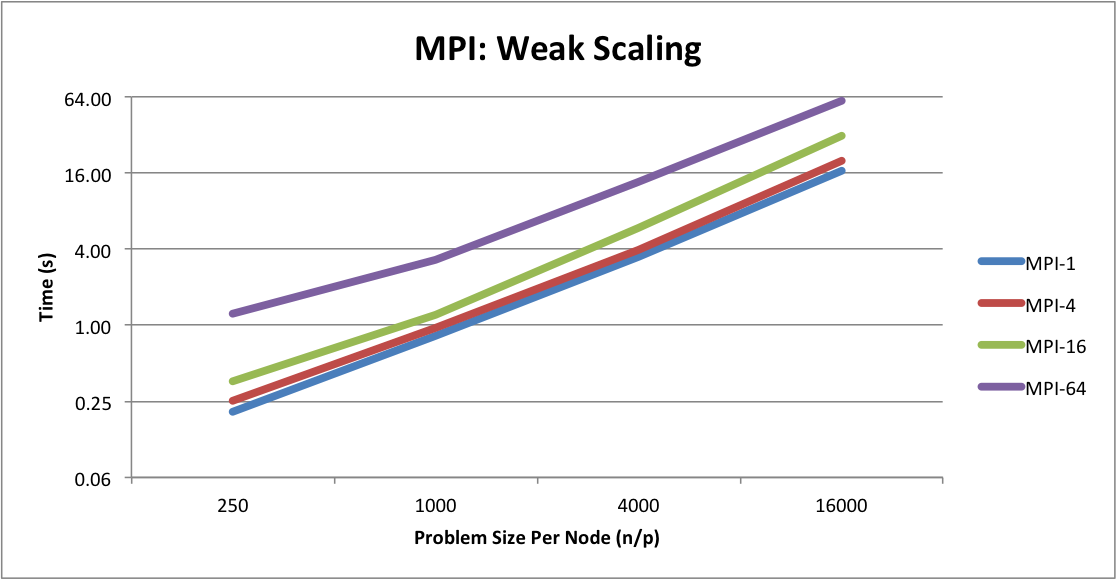
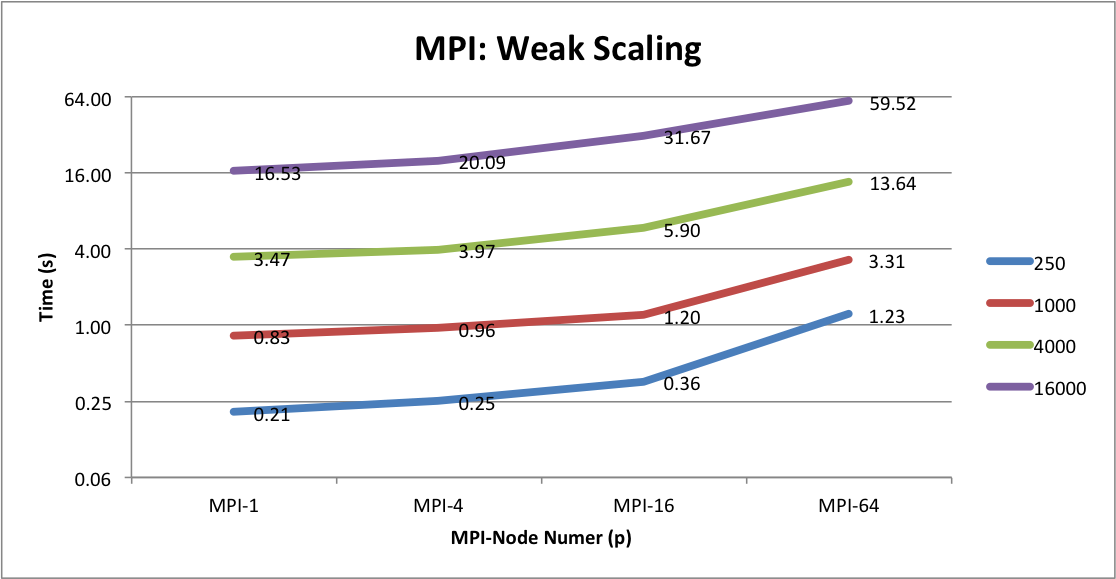
Final changes before submitting, hopefully.

diff --git a/report/hw2.tex b/report/hw2.tex
@@ -3,6 +3,7 @@
 \usepackage[retainorgcmds]{IEEEtrantools}
 \usepackage{filecontents}
 \usepackage{hyperref}
+\usepackage{graphicx}
 \author{Derek Kuo, Henry Milner}
 \title{CS267 HW2: Particle Simulation}
 \date{3/13/15}
@@ -153,9 +154,27 @@ We run our experiments in three different computing environments.  Most experime
 Our serial implementation uses a grid data structure to execute the interaction step in $O(n)$ time.  The box is divided into $O(n)$ equal squares (approximately $n$ squares in our implementation), which are large enough that a particle can only interact with particles in its own square and its 8 neighboring squares on a single iteration.  Squares are stored in a flat vector in column-major order, and each square contains a pointer to a vector of pointers to the particles it currently contains.  In the interaction step, each particle only needs to be checked for interactions with particles in 9 squares; since the number of particles per square is bounded (and equal to 1 on average), the interaction step takes $O(n)$ time.  After the movement step, particles must be mapped to new grid squares, so we simply build a new grid serially, which takes $O(n)$ time.
 
 \subsection{Results}
-Serial-hopper \ref{fig:serial-on} shows that our algorithm indeed enjoys linear ($O(n)$) scaling.  For comparison, Figure \ref{fig:serial-naive} shows the performance of the naive $O(n^2)$ algorithm on smaller problems.
+Figure \ref{fig:serial-on} shows that our algorithm indeed enjoys linear ($O(n)$) scaling.  For comparison, Figure \ref{fig:serial-naive} shows the performance of the naive $O(n^2)$ algorithm on smaller problems.
 
 We also ran our experiments on our laptop, and the laptop runs the serial code faster than the Hopper nodes, which are not designed for serial performance.  Figure \ref{fig:serial-laptop} shows the results; the laptop does slightly outperform Hopper.
+
+\begin{figure}
+  \includegraphics[width=\textwidth]{plots/Serial-Hopper.png}
+  \caption{$O(n)$ scaling of the serial algorithm.}
+  \label{fig:serial-on}
+\end{figure}
+
+\begin{figure}
+  \includegraphics[width=\textwidth]{plots/Serial-Naive.png}
+  \caption{Performance of the $O(n^2)$ serial algorithm.}
+  \label{fig:serial-naive}
+\end{figure}
+
+\begin{figure}
+  \includegraphics[width=\textwidth]{plots/Serial-laptop-vs-hopper.png}
+  \caption{Performance of the serial algorithm on Hopper and a laptop.  (Running time is the on the y axis, and problem size is on the x axis.  Smaller is better.)}
+  \label{fig:serial-laptop}
+\end{figure}
 
 \section{OpenMP Implementation}
 Our OpenMP implementation uses a similar grid data structure.  To maximize cache locality, each thread is assigned a block of grid squares whose particles' accelerations it must compute in the interaction step.  With this scheme, a thread needs only read particles from its own squares and from squares bordering its block.  The grid itself is also built in parallel.  After movement, each thread inserts into a new shared grid data structure all the particles that were in its block before movement.  Each square uses a separate \code{omp\_lock\_t} to ensure that inserts are atomic.
@@ -202,17 +221,35 @@ def insertIntoGrid(oldGrid, newGrid):
 \subsection{Results}
 Figure \ref{fig:openmp-on} shows that our algorithm scales linearly with problem size, for $p=1$ or $p=24$ threads.  Figure \ref{fig:openmp-weak} shows weak scaling: We increase the number of threads, increasing $n$ proportionally, for various base problem sizes.  Our algorithm does not enjoy weak scaling; a least-squares fit of log-performance against $\alpha \log n$ gives $\alpha \approxeq 1/2$ for large $n$, indicating that the asymptotic performance could be $O(n/\sqrt{p})$.  Figure \ref{fig:openmp-strong} gives similarly bad news for strong scaling.
 
+\begin{figure}
+  \includegraphics[width=\textwidth]{plots/OpenMP-Thread1-vs-Thread24.png}
+  \caption{$O(n)$ scaling of the OpenMP implementation using $1$ and $24$ threads.}
+  \label{fig:openmp-on}
+\end{figure}
+
+\begin{figure}
+  \includegraphics[width=\textwidth]{plots/OpenMP-weak-scaling.png}
+  \caption{Weak scaling of the OpenMP implementation, for various base problem sizes.}
+  \label{fig:openmp-weak}
+\end{figure}
+
+\begin{figure}
+  \includegraphics[width=\textwidth]{plots/OpenMP-Strong-scaling.png}
+  \caption{Strong scaling of the OpenMP implementation, for various base problem sizes.}
+  \label{fig:openmp-strong}
+\end{figure}
+
 \section{MPI Implementation}
-Our MPI implementation centered on three parts: 1) the division of particle regions for each node - how over all particles are divided and handled. 2) the communication and message format passing among each node - what different type of information are passed through MPI commands. 3) the faster O(n) algorithm achieved by grids.
+Our MPI implementation centered on three parts: (1) the division of particle regions for each node - how over all particles are divided and handled; (2) the communication and message format passing among each node - what different type of information are passed through MPI commands; and (3) the faster $O(n)$ algorithm achieved by grids.
 
 \subsection{The division of particles}
-Initially, the master node (rank=0) scan all of the particles and assigned them into corresponding processor based on their locations on the map. Based on different number of nodes user specified, the program equally divided the region into subregion administrated by each node. In it's own region, the node calculated the force and move the particles based on local data. Two types of local data have been recorded: (1) Nodes inside the region (2) Nodes outside the region but is in the boundary region <within the region that just one grid width beyond the inside region. With these two local data, each node have sufficient information to calculate it's own particles' movement.
+Initially, the master node (rank=0) scans all of the particles and assigns them to a processor based on their locations in the box. Based on the number of nodes specified by the user, the program equally divides the region into subregion administrated by each node. In its own region, the node calculates forces and moves particles based on local data. A node holds two types of local data: (1) particles inside the region (2) particles outside the region but in the boundary of squares immediately around the region. With this local data, each node has sufficient information to calculate its own particles' movements.
 
 \subsection{Communication between nodes}
-After applying force and make movement, each particle will have a new coordinate. Each node started to examine if <1> it's own particles have moved outside the region or <2> it's still inside the region but it's at the boundary of other nodes. <3> inside the region and not at boundary. The node then use MPI_Isend() and MPI_Recv() to communicate with other nodes and send the list of type <1> and type <2> particles to the exact nodes they should received. One thing to note is we are using non-blocking MPI_Isend() and blocking MPI_Recv() to avoid deadlock.
+After applying forces and movements, each particle has a new coordinate. Each node checks whether its particles have (1) moved outside the region; (2) stayed inside the region but at the boundary of other nodes; or (3) stayed inside the region and not at boundary. The node then use \code{MPI\_Isend()} and \code{MPI\_Recv()} to communicate with other nodes and send the list of type (1) and type (2) particles to the exact nodes they should received. One thing to note is we are using non-blocking \code{MPI\_Isend()} and blocking \code{MPI\_Recv()} to avoid deadlock.
 
 \subsection{Faster algorithm with grid}
-Similar to OpenMP, the MPI are also using grid data structure to improve the time efficiency to O(n). However, instead of shared grid structure, each node maintain it's own local grids and only store the local nodes into the grids. The advantage to do grid locally is the avoidance of racing conditions. The drawback is we need to update the grid in every step, potentially increasing the computation time in addition to update the particles.
+Similar to OpenMP, the MPI implementation uses a grid data structure to improve the time efficiency to $O(n)$. However, instead of shared grid structure, each node maintains its own local grid. In principle, we could use an $O(n^2)$ algorithm locally, if the subproblem solved by each node were too small to justify the overhead of maintaining a grid.  In practice, it is better to use the linear algorithm.
 
 \subsection{pseudocode}
 
@@ -232,7 +269,25 @@ For each step within each node:
 \end{verbatim}
 
 \subsection{Results}
-Figure \ref{fig:mpi-on} shows that our algorithm scales linearly with problem size, for $p=1$ or $p=16$ nodes.  Figure \ref{fig:mpi-weak} shows weak scaling: We increase the number of nodes, increasing $n$ proportionally, for various base problem sizes.  Our MPI algorithm has enjoyed better weak scaling, although not perfect.  Figure \ref{fig:mpi-strong} gives also displayed the same situation.
+Figure \ref{fig:mpi-on} shows that our algorithm scales linearly with problem size, for $p=1$ or $p=16$ nodes.  Figure \ref{fig:mpi-weak} shows weak scaling: We increase the number of nodes, increasing $n$ proportionally, for various base problem sizes.  Our MPI algorithm enjoys better weak scaling, although not perfect.  Figure \ref{fig:mpi-strong} shows a similar situation for strong scaling.
+
+\begin{figure}
+  \includegraphics[width=\textwidth]{plots/MPI-node1-vs-node16.png}
+  \caption{$O(n)$ scaling of the MPI implementation using $1$ and $16$ nodes.}
+  \label{fig:mpi-on}
+\end{figure}
+
+\begin{figure}
+  \includegraphics[width=\textwidth]{plots/MPI-weak-scaling.png}
+  \caption{Weak scaling of the MPI implementation, for various base problem sizes.}
+  \label{fig:mpi-weak}
+\end{figure}
+
+\begin{figure}
+  \includegraphics[width=\textwidth]{plots/MPI-strong-scaling.png}
+  \caption{Strong scaling of the MPI implementation, for various base problem sizes.}
+  \label{fig:mpi-strong}
+\end{figure}
 
 \section{CUDA Implementation}
 Our CUDA implementation is similar to our others, except for the step that builds the grid data structure.  In our other code, each grid square is a pointer to a dynamic array of pointers to a global list of particles.  This means that inserting into the grid requires dynamic allocation of memory and locking, both of which are purportedly expensive on the GPU.  Instead, we store particles in a flat array, sorted by grid square location in column-major order.  A separate array stores pointers from grid square index to the first particle contained in the grid square.  This allows us to use Thrust's efficient implementation of \code{sort()} to rebuild the grid.
@@ -263,20 +318,48 @@ Figure \ref{fig:gpu-on} shows that our implementation's runtime scales linearly 
 
 Finally, in Figure \ref{fig:gpu-laptop} we compare the performance of the NVIDIA K20 GPU with the Geforce GT 650M in a Macbook Pro.  The K20 is about 4 times as fast for the largest problem size, and it can handle much larger problems (it has 5 times as much memory, and the 650M was simultaneously driving a retina Macbook display).
 
+\begin{figure}
+  \includegraphics[width=\textwidth]{plots/CUDA-hopper.png}
+  \caption{$O(n)$ scaling of the CUDA implementation.}
+  \label{fig:gpu-on}
+\end{figure}
+
+\begin{figure}
+  \includegraphics[width=\textwidth]{plots/CUDA-naive.png}
+  \caption{Comparison of the CUDA implementation with the naive $O(n^2)$ version.}
+  \label{fig:gpu-naive}
+\end{figure}
+
+\begin{figure}
+  \includegraphics[width=\textwidth]{plots/CUDA-laptop.png}
+  \caption{Comparison of CUDA code running on a laptop and on a Stampede node.}
+  \label{fig:gpu-laptop}
+\end{figure}
+
 \section{Observations}
 We close with some observations.
 
 \subsection{Performance Comparison}
 Figure \ref{fig:all} shows the performance of all the implementations we have discussed.  Some takeaways:
 \begin{description}
-  \item[Asymptotics are important:] The $O(n)$ algorithm beat the $O(n^2)$ algorithm at modest problem sizes -- $n=250$ for serial code and at $n=4000$ for GPU code -- despite using more complex data structures.
+  \item[Asymptotics are important:] The $O(n)$ algorithm beat the $O(n^2)$ algorithm at modest problem sizes -- at $n=250$ for serial code and at $n=4000$ for GPU code -- despite using more complex data structures.
   \item[GPUs win:] Running on Stampede, the GPU code beats all other implementations by a factor of roughly 3 for large problem sizes.  This is true even for MPI code running on 11 Hopper nodes.  GPU code running on a laptop is competitive with MPI code on a small cluster.  However, the GPU is limited by the availability of memory ($n=256000$ for the laptop and $n=16384000$ for Stampede), while the MPI code could presumably scale to even larger problems than we tested, albeit very slowly.  This limitation could potentially be lifted by swapping to machine memory, but that would diminish or eliminate the benefits of using the GPU.
 \end{description}
 
+\begin{figure}
+  \includegraphics[width=\textwidth]{plots/Overall.png}
+  \caption{Comparison of all particle simulator implementations.}
+  \label{fig:all}
+\end{figure}
+
 \subsection{Future Work}
+\label{sec:future}
 None of the programming models we used in this project were perfectly suited to the problem.  In each case, it was difficult to minimize communication when building the grid data structure and using it to simulate particle interactions.  Instead, it seems best to think of particle simulation as a graph-parallel problem.  In every implementation we discretize the problem domain into squares; each square does bounded work (since the number of particles per square is bounded) and communicates particles and forces with a bounded number of neighbors on each iteration.  It is natural to think of the squares as nodes in a (dynamic) graph of bounded degree.  Systems like GraphLab \cite{graphlab} or GraphX \cite{graphx} therefore ought to provide an easy and efficient way to implement our particle simulator.  A recent system, MapGraph, could even be used to run on a GPU.  It would be interesting to investigate this.
 
-Another interesting question raised by this assignment is: What is a better approach to reordering particles in the GPU code?  Thrust's \code{sort()} does not seem to introduce a noticeable bottleneck in practice, so this is largely an academic exercise.  But in theory, we have introduced an $O(n \log n)$ step in an algorithm that could run in $O(n)$ time.  We could fix this by using a sorting algorithm that (1) sorts in place, (2) sorts in parallel on a GPU, and (3) takes $O(M)$ time, where $M$ is the total distance traveled by particles from their original order.  In other words, we can take advantage of the fact that the list of particles stays \emph{nearly sorted} on each iteration.  (This is equivalent to the fact that the computation graph in GraphLab would be of bounded degree.)  There are two difficulties that may not be resolvable.  First, we know of no such sorting algorithm.  Second, we would need to sort on a one-dimensional embedding of the particles that ensures all neighboring particles, and not too many more particles on average, appear as neighbors (say, within $k$ places of the particle) in the sorted order.  We are not sure if such a scheme is possible.  (Locality-sensitive hashing is one potential method.)  There is some related work to explore \cite{durand2012packed}.
+Another interesting question raised by this assignment is: What is a better approach to reordering particles in the GPU code?  Thrust's \code{sort()} does not seem to introduce a noticeable bottleneck in practice, so this is largely an academic exercise.  But in theory, we have introduced an $O(n \log n)$ step in an algorithm that could run in $O(n)$ time.  We could fix this by using a sorting algorithm that (1) sorts in place, (2) sorts in parallel on a GPU, and (3) takes $O(M)$ time, where $M$ is the total distance traveled by particles from their original order.  In other words, we can take advantage of the fact that the list of particles stays \emph{nearly sorted} on each iteration.  (This is equivalent to the fact that the computation graph in GraphLab would be of bounded degree.)  There are two difficulties that may not be resolvable.  First, we know of no such sorting algorithm.  Second, we would need to sort on a one-dimensional embedding of the particles that ensures all neighboring particles, and not too many more particles on average, appear as neighbors (say, within $k$ places of the particle) in the sorted order.  We are not sure if such a scheme is possible.  (Locality-sensitive hashing is one potential method.)  There is some recent related work to explore: \cite{durand2012packed}.
+
+\section{Notes on Running Our Code}
+We used GNU g++ to compile all parts of our code (other than that compiled with nvcc).  On Hopper, please run \code{module swap PrgEnv-pgi PrgEnv-gnu} before attempting to run the build.  On Stampede, run \code{module load cuda} before building.
 
 \bibliographystyle{plain}
 \bibliography{\jobname}
